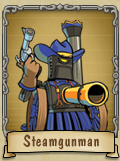
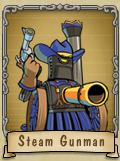
- New graphics for War Bonnet and Cowpoke Features - Fixed spelling: Steam Gunman and Forest Guardians - Screenshot gallery tweaks: Back and Next buttons + 1 px border

Changed region(s): [[0.15, 0.8385, 0.875, 0.9317]]

diff --git a/pages/town/frontier.html b/pages/town/frontier.html
@@ -13,13 +13,13 @@
 <table width="500px" cellpading="0" cellshading="0" border="0">
 <tr><td><a href="/screenshots/index2.html?/images/screenshots/frontier/,2,12">
          <img src="/images/screenshots/frontier/thumbs/2.png" 
-         width="150" border="0" alt=""/></a></td>
+         width="150" border="0" alt="" class="thumb"/></a></td>
      <td><a href="/screenshots/index2.html?/images/screenshots/frontier/,10,12">
          <img src="/images/screenshots/frontier/thumbs/10.png" 
-         width="150" border="0" alt=""/></a></td>
+         width="150" border="0" alt="" class="thumb"/></a></td>
      <td><a href="/screenshots/index2.html?/images/screenshots/frontier/,7,12">
          <img src="/images/screenshots/frontier/thumbs/7.png" 
-         width="150" border="0" alt=""/></a></td>
+         width="150" border="0" alt="" class="thumb"/></a></td>
 </tr>
 </table>
     </div>
@@ -27,11 +27,11 @@
 <div id="FeatureTop"></div>
 <div id="FeatureMid">
     <div id="ContentMid">
-        <table width="100%" cellpadding="6px" cellspacing="0" border="0">
+        <table width="100%" cellpadding="12px" cellspacing="0" border="0">
             <tr><td valign="top" width="120px">
                   <img src="/images/town/frontier/scen_gold.png" alt="Gold Rush">
                 </td>
-                <td valign="top"><img src="/images/town/scenarios.gif"><br/>
+                <td valign="top" width="230px"><img src="/images/town/scenarios.gif"><br/>
                   There are a heap of different <b>Gameplay Scenarios</b> to keep things
                   interestin'. In <b>Gold Rush</b> players compete to collect <b>Gold Nuggets</b>
                   from around the board and get them back to their <b>Steam Tank</b> before they
@@ -41,7 +41,7 @@
              	<td valign="top" width="120px">
                   <img src="/images/town/frontier/unit_steam.png" alt="Steam Gunman">
                 </td>
-                <td valign="top"><img src="/images/town/units.gif"><br/>
+                <td valign="top" width="230px"><img src="/images/town/units.gif"><br/>
                   Players choose from a gaggle o' different <b>Units</b> when puttin' together a
                   team for each game. Units differ in their basic abilities, bonuses and penalties
                   versus other types of units and some have unique powers. This here <b>Steam
@@ -60,7 +60,7 @@
                   a 30% attack bonus.
                 </td>
              	<td valign="top" width="120px">
-                  <img src="/images/town/frontier/badge_buck.png" alt="Buckaroo">
+                  <img src="/images/town/frontier/badge_cowpoke.png" alt="Cow Poke">
                 </td>
                 <td valign="top"><img src="/images/town/badges.gif"><br/>
                   As players play games and rack up experience, they qualify for a variety of

diff --git a/pages/town/itp.html b/pages/town/itp.html
@@ -12,13 +12,13 @@
 <table width="500px" cellpading="0" cellshading="0" border="0">
 <tr><td><a href="/screenshots/itp2.html?/images/screenshots/itp/,9,12">
          <img src="/images/screenshots/itp/thumbs/9.png" 
-         width="150" border="0" alt=""/></a></td>
+         width="150" border="0" alt="" class="thumb"/></a></td>
     <td><a href="/screenshots/itp2.html?/images/screenshots/itp/,11,12">
          <img src="/images/screenshots/itp/thumbs/11.png" 
-         width="150" border="0" alt=""/></a></td>
+         width="150" border="0" alt="" class="thumb"/></a></td>
      <td><a href="/screenshots/itp2.html?/images/screenshots/itp/,4,12">
          <img src="/images/screenshots/itp/thumbs/4.png" 
-         width="150" border="0" alt=""/></a></td>
+         width="150" border="0" alt="" class="thumb"/></a></td>
 </tr>
 </table>
     </div>
@@ -30,7 +30,7 @@
             <tr><td valign="top" width="120px">
                   <img src="/images/town/itp/scen_forest.png" alt="Forest Guardians">
                 </td>
-                <td valign="top"><img src="/images/town/scenarios.gif"><br/>
+                <td valign="top" width="230px"><img src="/images/town/scenarios.gif"><br/>
                   Three new <b>Scenarios</b> introduce variations on the gameplay. <b>Forest
                   Guardians</b> is a cooperative scenario where players work together to defend
                   tiny saplings from an onslaught of vicious <b>Logging Robots</b>. Help the trees
@@ -40,7 +40,7 @@
              	<td valign="top" width="120px">
                   <img src="/images/town/itp/unit_storm.png" alt="Storm Caller">
                 </td>
-                <td valign="top"><img src="/images/town/units.gif"><br/>
+                <td valign="top" width="230px"><img src="/images/town/units.gif"><br/>
                   There are three new <b>Big Shot Units</b> and four new regular <b>Units</b>. The
                   <b>Storm Caller</b> is a new Big Shot Unit with the ability to call down a
                   <b>Lightning Strike</b> on his opponents which chains to anyone unfortunate
@@ -60,9 +60,9 @@
                   Soldier</b>.
                 </td>
              	<td valign="top" width="120px">
-                  <img src="/images/town/itp/badge_chief.png" alt="Potlach Chief">
+                  <img src="/images/town/itp/dud_warbonnet.png" alt="War Bonnet">
                 </td>
-                <td valign="top"><img src="/images/town/badges.gif"><br/>
+                <td valign="top"><img src="/images/town/duds.gif"><br/>
                   You'll be greeted with dozens of new <b>Hats</b>, <b>Outfits</b> and <b>Indian
                   Face Paints</b> that you can use to make the fanciest dang avatar ever to set
                   foot this side of the Pecos River. This <b>War Bonnet</b> will send yer opponents

diff --git a/pages/js/imageviewer2.js b/pages/js/imageviewer2.js
@@ -150,8 +150,8 @@ function nextPicture(){
 function printGalleryNav() {	
     document.write ('<table width="700px" border="0"><tr><td width="150px">');
     // Back button to go to the previous graphic
-    //document.write ('<a href="'+sPath+'?'+imgDir+','+screenshotNext+','+screenshotsTotal+'"><img src = "'+ imgDir +'back.png" border="0" name="SlideShow" alt="Click on image to view next entry"></a>');
-    document.write ('<a href="'+sPath+'?'+imgDir+','+screenshotNext+','+screenshotsTotal+'">Previous</a>');
+    document.write ('<a href="'+sPath+'?'+imgDir+','+screenshotNext+','+screenshotsTotal+'"><img src = "/images/screenshots/back.gif" border="0" name="SlideShow" alt="Click on image to view next entry"></a>');
+    //document.write ('<a href="'+sPath+'?'+imgDir+','+screenshotNext+','+screenshotsTotal+'">Previous</a>');
     document.write ('</td><td align="center" >');
     // Tell the user which image they are on, and how many photos in the full collection
     var displayScreenshotCurrent = screenshotsTotal - screenshotCurrent + 1;
@@ -160,8 +160,8 @@ function printGalleryNav() {
     document.write ('<a href = "'+ upURL +'">Back to Thumbnail Gallery</a></span>');
     document.write ('</td><td align="right" width="150px">');
     // Next button to go to the next graphic
-    //document.write ('<a href="'+sPath+'?'+imgDir+','+screenshotPrevious+','+screenshotsTotal+'"><img src = "'+ imgDir +'next.png" border="0" name="SlideShow" alt="Click on image to view next entry"></a>');
-    document.write ('<a href="'+sPath+'?'+imgDir+','+screenshotPrevious+','+screenshotsTotal+'">Next</a>');
+    document.write ('<a href="'+sPath+'?'+imgDir+','+screenshotPrevious+','+screenshotsTotal+'"><img src = "/images/screenshots/next.gif" border="0" name="SlideShow" alt="Click on image to view next entry"></a>');
+    //document.write ('<a href="'+sPath+'?'+imgDir+','+screenshotPrevious+','+screenshotsTotal+'">Next</a>');
     document.write ('</td></tr></table>');
 }
 

diff --git a/pages/js/imageviewer.js b/pages/js/imageviewer.js
@@ -31,7 +31,8 @@ function printThumbNav() {
         var nextPage = parseInt(queryCurrentPage) + 1;
     }
     document.write ('<table width="700px" border="0"><tr><td>');
-    document.write('<a href="?' + prevPage + ',' + pages + '">Prev</a>');
+    //document.write('<a href="?' + prevPage + ',' + pages + '">Prev</a>');
+    document.write('<a href="?' + prevPage + ',' + pages + '"><img src="/images/screenshots/back.gif"></a>');
     document.write ('</td><td align="center">');
     if (pages != 1) {
         for (x = 1; x<=pages; x++) {
@@ -51,7 +52,8 @@ function printThumbNav() {
         }
     }
     document.write ('</td><td align="right">');
-    document.write('<a href="?' + nextPage + ',' + pages + '">Next</a>');
+    //document.write('<a href="?' + nextPage + ',' + pages + '">Next</a>');
+    document.write('<a href="?' + nextPage + ',' + pages + '"><img src="/images/screenshots/next.gif"></a>');
     document.write ('</td></tr></table>');
 }
 
@@ -89,7 +91,7 @@ function buildGallery() {
 // Layout the specific screenshot
 
 function screenshot(number) {
-	document.write('<a href="'+myImgPage+'?'+ImgLibrary+','+number+','+screenshotsTotal+'"><img src="' + ImgLibrary + 'thumbs/' + number +'.png" border="0"></a>');
+	document.write('<a href="'+myImgPage+'?'+ImgLibrary+','+number+','+screenshotsTotal+'"><img src="' + ImgLibrary + 'thumbs/' + number +'.png" border="0" class="thumb"></a>');
 }
 
 

diff --git a/pages/screenshots/itp2.html b/pages/screenshots/itp2.html
@@ -69,7 +69,7 @@ if (screenshotsTotal >= 3) {
 printGalleryNav();
 
 // Layout Current image requested so if you click on it, it'll go to the next one
-document.write ('<a href="'+sPath+'?'+imgDir+','+screenshotPrevious+','+screenshotsTotal+'"><img src = "'+ imgDir + screenshotCurrent +'.png" border = "0" name = "SlideShow" alt = "Click on image to view next entry"></a>');
+document.write ('<a href="'+sPath+'?'+imgDir+','+screenshotPrevious+','+screenshotsTotal+'"><img src = "'+ imgDir + screenshotCurrent +'.png" border="0" name="Screenshots" class="thumb" alt="Click on image to view next image"></a>');
 
 // Layout the nav
 printGalleryNav();

diff --git a/pages/screenshots/index2.html b/pages/screenshots/index2.html
@@ -69,7 +69,7 @@ if (screenshotsTotal >= 3) {
 printGalleryNav();
 
 // Layout Current image requested so if you click on it, it'll go to the next one
-document.write ('<a href="'+sPath+'?'+imgDir+','+screenshotPrevious+','+screenshotsTotal+'"><img src = "'+ imgDir + screenshotCurrent +'.png" border = "0" name = "SlideShow" alt = "Click on image to view next entry"></a>');
+document.write ('<a href="'+sPath+'?'+imgDir+','+screenshotPrevious+','+screenshotsTotal+'"><img src = "'+ imgDir + screenshotCurrent +'.png" border="0" name="Screenshots" class="thumb" alt="Click to view next image"></a>');
 
 // Layout the nav
 printGalleryNav();

diff --git a/pages/style.css b/pages/style.css
@@ -22,6 +22,10 @@ td {
   text-align: center;
 }
 
+.thumb {
+    border: 1px solid #3c2708;
+}
+
 /* -------------------------------------------------
    FONTS
 ------------------------------------------------- */
